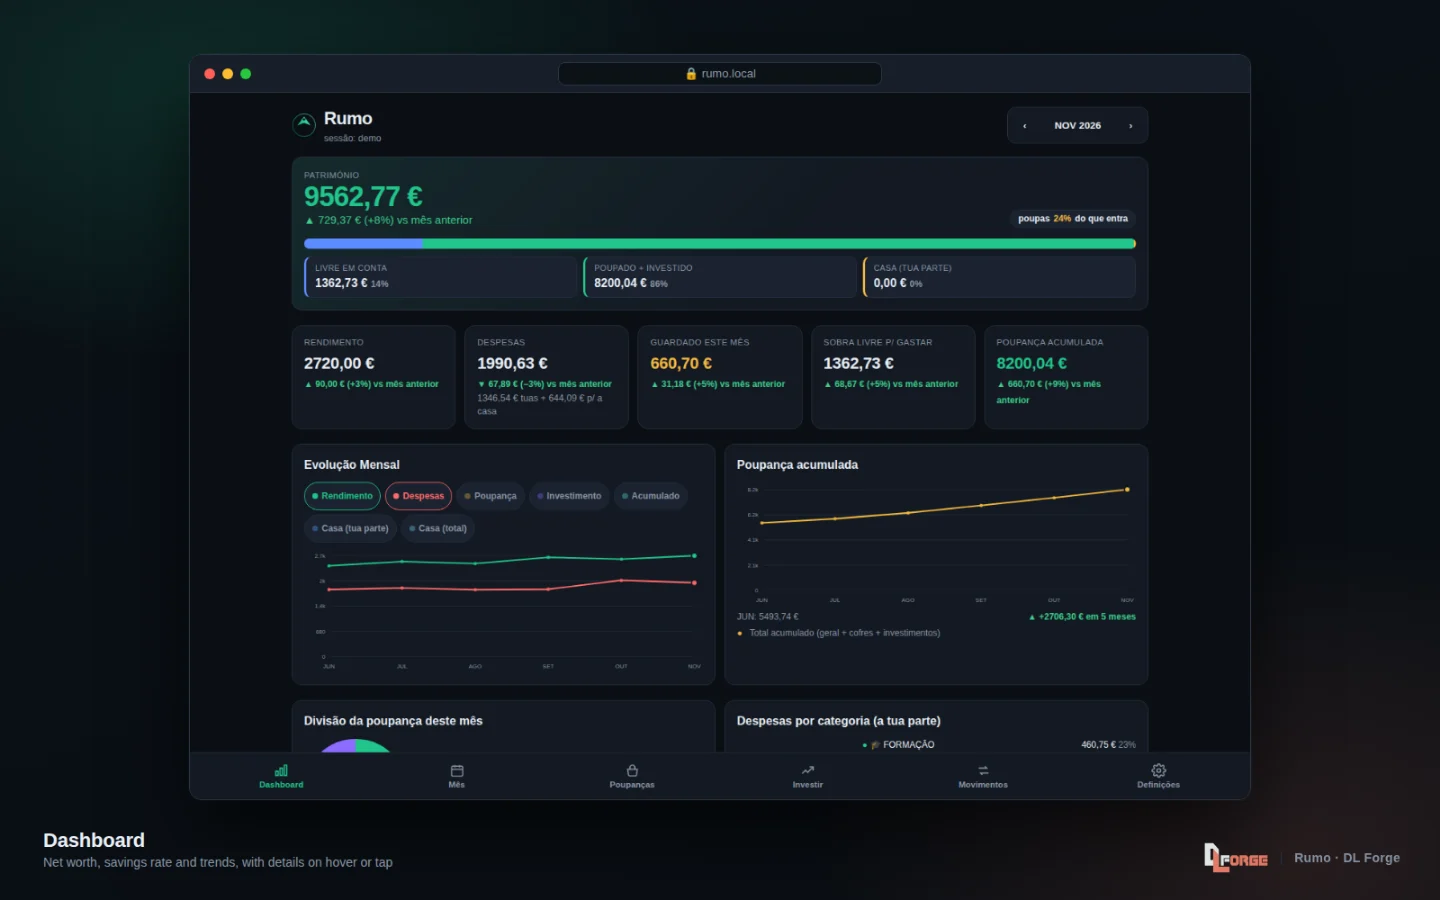
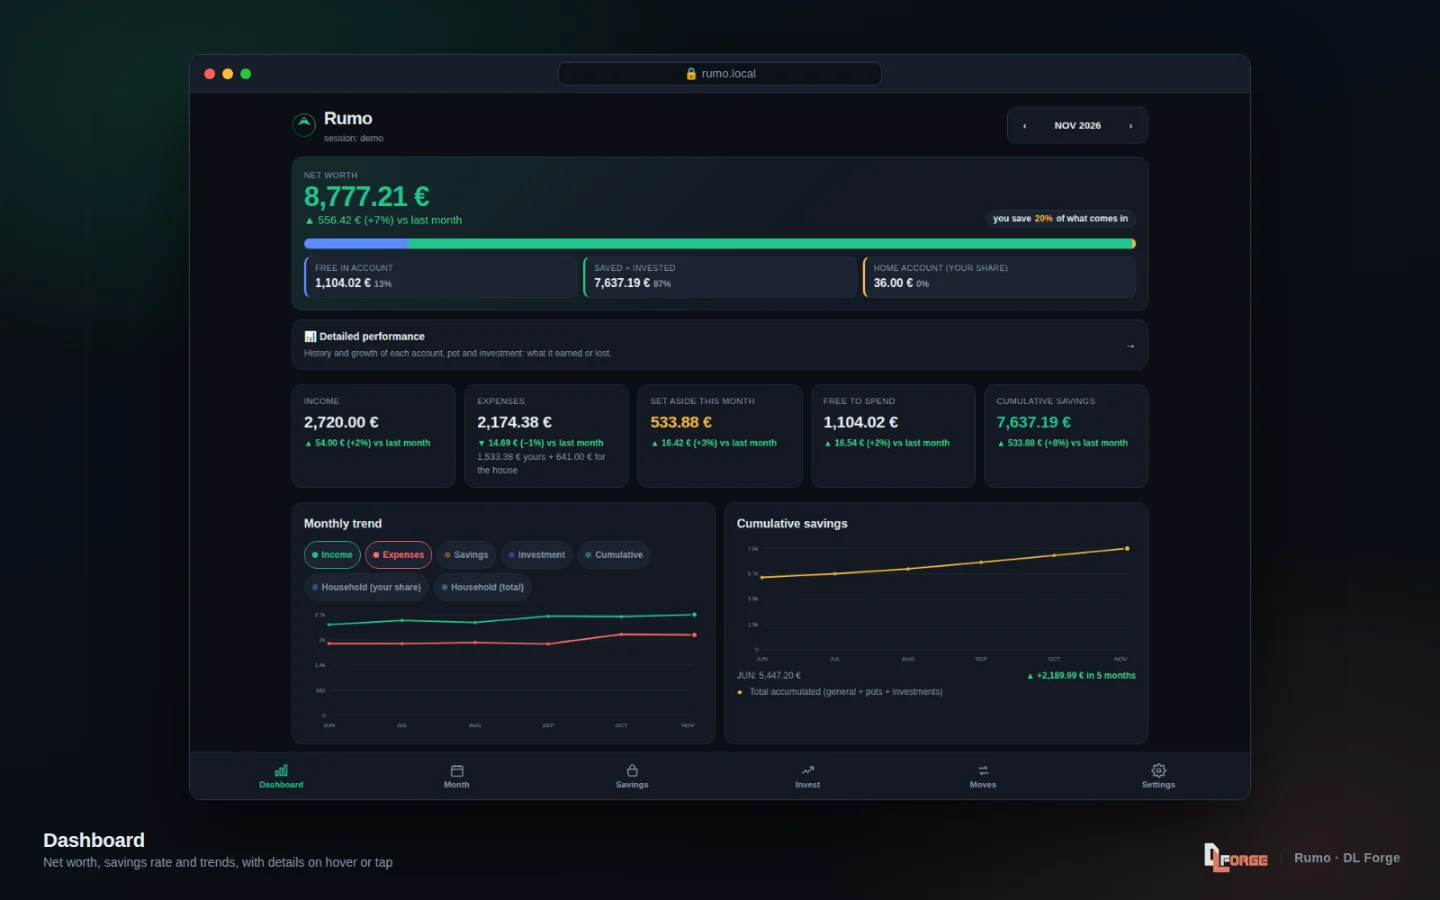
Rumo: novidades (juros nos cofres, desempenho, investimentos), inglês por omissão, capturas novas

diff --git a/src/data.js b/src/data.js
@@ -396,8 +396,11 @@ export const PROJECTS = [
         'Percentage or amount, whichever you type; double-click an amount to edit it',
         'Dashboard with net worth, trends and cards that explain themselves on hover or tap',
         'Any currency, with positions in other currencies converted',
-        'Investments with live or manual prices, and optional AI advice with your own key',
-        'Interface in European Portuguese; layouts and gestures made for phones too',
+        'Pots that earn interest: a gross annual rate or a monthly amount, with a forecast and a goal date that moves accordingly',
+        'Real versus expected: type your real balance each month and Rumo keeps what the money earned or lost',
+        'Detailed performance drawer, and an investments dashboard with allocation, risers and fallers, concentration and a plain-language reading',
+        'Positions with live or manual prices, category tabs, search, sorting, pages and a totals view; optional AI advice with your own key',
+        'English by default, European Portuguese in Settings; layouts and gestures made for phones too',
       ],
       pt: [
         'Uma só conta por omissão; transferência entre duas contas e conta conjunta opcionais',
@@ -405,8 +408,11 @@ export const PROJECTS = [
         'Percentagem ou valor, o que escreveres; duplo clique num valor para o editar',
         'Dashboard com património, tendências e cartões que se explicam ao passar o rato ou tocar',
         'Qualquer moeda, com posições noutras moedas convertidas',
-        'Investimentos com preços em direto ou manuais, e conselhos de IA opcionais com a tua chave',
-        'Interface em português europeu; ecrãs e gestos pensados também para telemóvel',
+        'Cofres que rendem juros: uma TANB ou um valor mensal, com previsão e uma data do objetivo que se ajusta',
+        'Real contra esperado: escreves o valor real todos os meses e o Rumo guarda o que o dinheiro rendeu ou perdeu',
+        'Gaveta de desempenho detalhado e um dashboard de investimentos com alocação, o que sobe e desce, concentração e uma leitura em frases',
+        'Posições com preços em direto ou manuais, separadores por categoria, pesquisa, ordenação, páginas e vista de totais; conselhos de IA opcionais com a tua chave',
+        'Inglês por omissão, português europeu nas Definições; ecrãs e gestos pensados também para telemóvel',
       ],
     },
     note: {
@@ -421,6 +427,11 @@ export const PROJECTS = [
       shot('rumo-joint', 'Optional shared household account', 'Conta conjunta da casa, opcional'),
       shot('rumo-savings', 'Savings split that balances to 100%', 'Divisão da poupança que se ajusta a 100%'),
       shot('rumo-dashboard', 'Dashboard: net worth, trends and spending', 'Dashboard: património, tendências e despesas'),
+      shot('rumo-pots', 'Pots that earn interest, with a forecast', 'Cofres que rendem juros, com previsão'),
+      shot('rumo-performance', 'Detailed performance of accounts, pots and investments', 'Desempenho detalhado de contas, cofres e investimentos'),
+      shot('rumo-performance-detail', 'Real versus expected, read by pot type', 'Real contra esperado, lido conforme o tipo de cofre'),
+      shot('rumo-investments', 'Investments on the dashboard: allocation, risers and fallers', 'Investimentos no dashboard: alocação, o que sobe e desce'),
+      shot('rumo-positions', 'Positions, paged, with a totals view', 'Posições com páginas e vista de totais'),
       shot('rumo-settings', 'Options: accounts, currency and schemes', 'Opções: contas, moeda e esquemas'),
       shot('rumo-mobile', 'Responsive on phones', 'Responsiva no telemóvel'),
     ],
